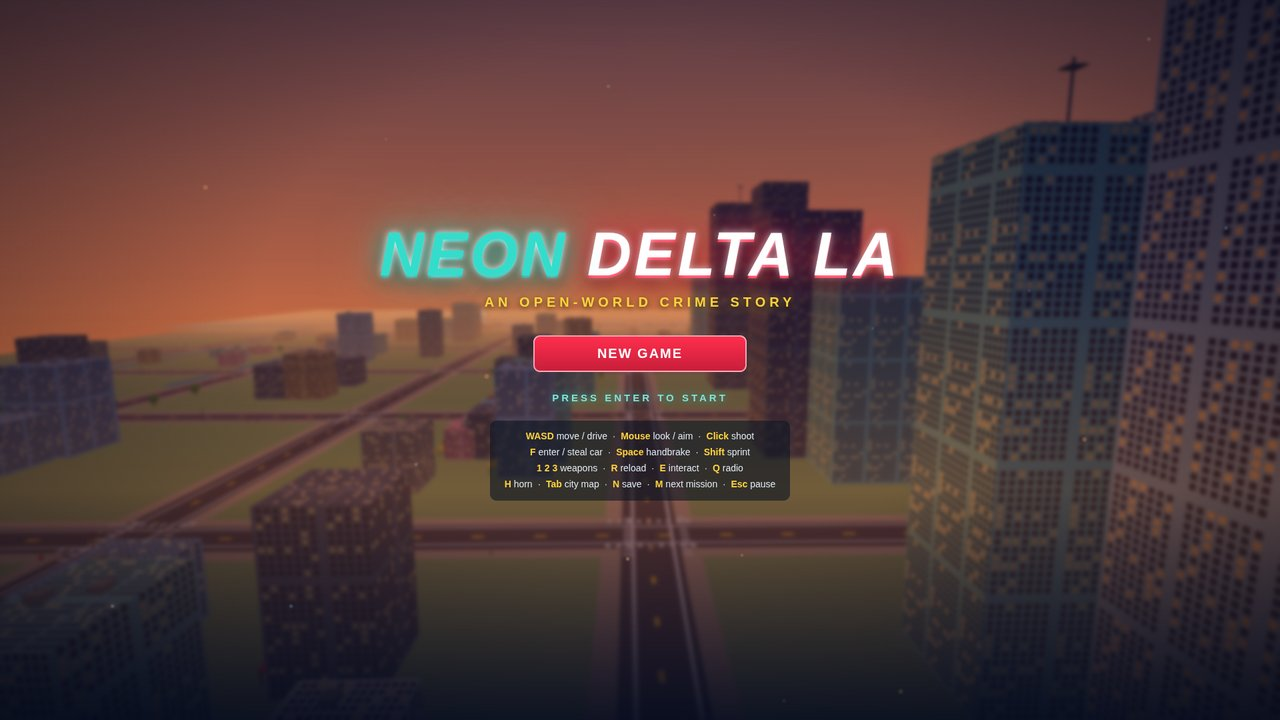
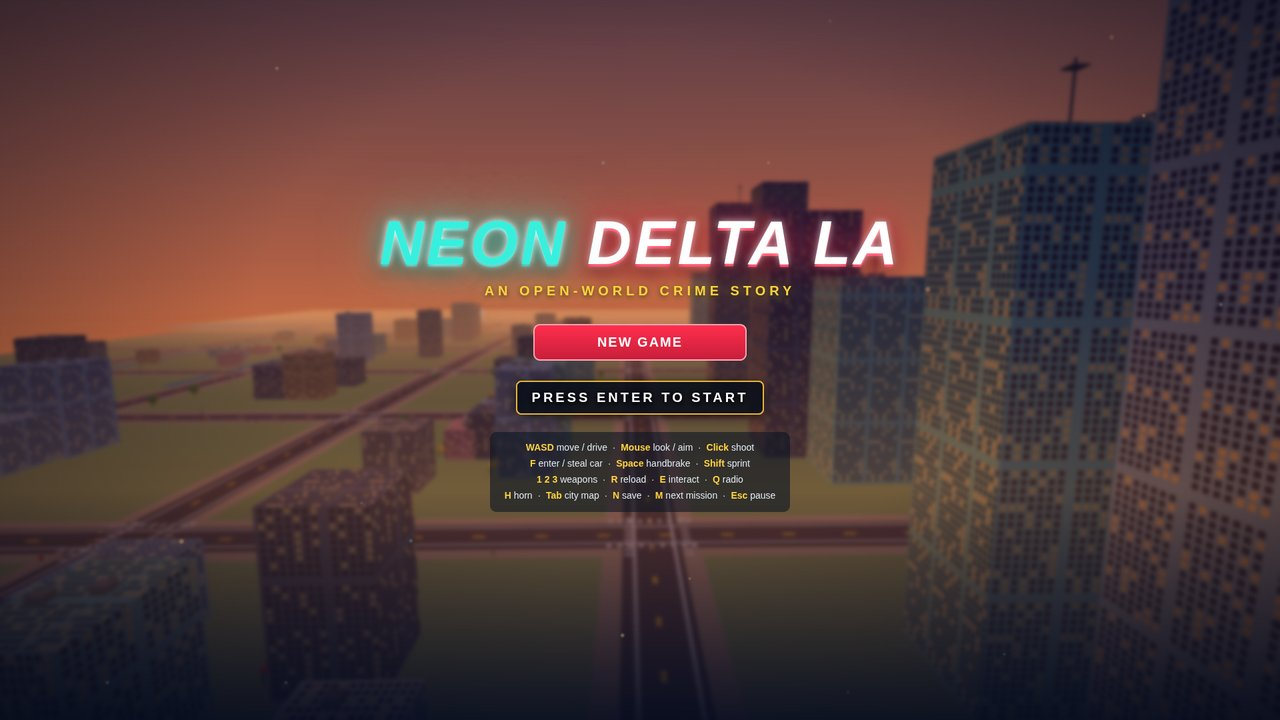
v8: judge-visible fixes — staged chase cruisers + traffic, pier close-up, port yard markings, title contrast

diff --git a/game/src/geo.js b/game/src/geo.js
@@ -82,21 +82,46 @@ export function groundTexture() {
   const pz = (z) => ((z + WORLD.HALF) / W) * S;
   return canvasTex(S, S, (g) => {
     g.fillStyle = '#8aa86b'; g.fillRect(0, 0, S, S); // grass base
-    // port concrete
-    g.fillStyle = '#9a9a92'; g.fillRect(px(340), pz(340), px(720) - px(340), pz(720) - pz(340));
-    // port yard detail: concrete panel seams every 40u, oil stains, and
-    // painted yellow container-slot outlines in the yard lanes, so the
-    // terminal floor reads as worked ground instead of flat gray.
-    g.strokeStyle = 'rgba(0,0,0,0.16)'; g.lineWidth = 2;
-    for (let x = 340; x <= 720; x += 40) { g.beginPath(); g.moveTo(px(x), pz(340)); g.lineTo(px(x), pz(720)); g.stroke(); }
-    for (let z = 340; z <= 720; z += 40) { g.beginPath(); g.moveTo(px(340), pz(z)); g.lineTo(px(720), pz(z)); g.stroke(); }
-    g.fillStyle = 'rgba(52,52,46,0.28)';
-    for (const [sx, sz, sw, sh] of [[380, 420, 70, 26], [520, 640, 90, 30], [640, 380, 50, 22], [430, 560, 60, 24], [660, 600, 46, 20]]) {
+    // port concrete: darker asphalt so the yard reads from the avenue
+    g.fillStyle = '#6f6f68'; g.fillRect(px(340), pz(340), px(720) - px(340), pz(720) - pz(340));
+    // Wide dark border band around the whole yard.
+    g.strokeStyle = 'rgba(20,20,16,0.55)'; g.lineWidth = 14;
+    g.strokeRect(px(340) + 7, pz(340) + 7, px(720) - px(340) - 14, pz(720) - pz(340) - 14);
+    // Thick white yard lanes every 20u + a painted coral center block.
+    g.strokeStyle = 'rgba(255,255,255,0.5)'; g.lineWidth = 6;
+    for (let x = 360; x <= 700; x += 20) { g.beginPath(); g.moveTo(px(x), pz(340)); g.lineTo(px(x), pz(720)); g.stroke(); }
+    for (let z = 360; z <= 700; z += 20) { g.beginPath(); g.moveTo(px(340), pz(z)); g.lineTo(px(720), pz(z)); g.stroke(); }
+    g.fillStyle = 'rgba(255,46,77,0.20)';
+    g.fillRect(px(460), pz(460), px(620) - px(460), pz(620) - pz(460));
+    g.strokeStyle = 'rgba(255,46,77,0.75)'; g.lineWidth = 6;
+    g.strokeRect(px(460), pz(460), px(620) - px(460), pz(620) - pz(460));
+    // Painted container bays across the central apron: thick yellow outline
+    // with a dark interior, so each bay reads from the avenue.
+    g.strokeStyle = '#f7c948'; g.lineWidth = 9;
+    for (let x = 400; x <= 600; x += 40) {
+      for (let z = 400; z <= 600; z += 40) {
+        g.fillStyle = 'rgba(0,0,0,0.14)';
+        g.fillRect(px(x), pz(z), px(x + 32) - px(x), pz(z + 28) - pz(z));
+        g.strokeRect(px(x), pz(z), px(x + 32) - px(x), pz(z + 28) - pz(z));
+      }
+    }
+    // Yellow underlay under each real stack bay (12 x 2.6 footprint) with a
+    // dark top, so a yellow painted border frames every stack.
+    for (const [sx, sz] of [[654, 438.7], [654, 478.7], [654, 518.7], [654, 558.7], [434, 658.7], [474, 658.7], [514, 658.7], [554, 658.7]]) {
+      g.fillStyle = '#f7c948';
+      g.fillRect(px(sx - 0.8), pz(sz - 0.8), px(sx + 12.8) - px(sx - 0.8), pz(sz + 3.4) - pz(sz - 0.8));
+      g.fillStyle = 'rgba(0,0,0,0.22)';
+      g.fillRect(px(sx), pz(sz), px(sx + 12) - px(sx), pz(sz + 2.6) - pz(sz));
+    }
+    // Big oil stains + a hazard chevron band along the yard entrance.
+    g.fillStyle = 'rgba(52,52,46,0.42)';
+    for (const [sx, sz, sw, sh] of [[380, 420, 70, 26], [520, 640, 90, 30], [640, 380, 50, 22], [430, 560, 60, 24], [660, 600, 46, 20], [400, 660, 80, 28], [580, 420, 60, 26]]) {
       g.fillRect(px(sx), pz(sz), px(sx + sw) - px(sx), pz(sz + sh) - pz(sz));
     }
-    g.strokeStyle = 'rgba(247,201,72,0.85)'; g.lineWidth = 3;
-    for (const [sx, sz] of [[654, 438.7], [654, 478.7], [654, 518.7], [654, 558.7], [434, 658.7], [474, 658.7], [514, 658.7], [554, 658.7]]) {
-      g.strokeRect(px(sx), pz(sz), px(sx + 12) - px(sx), pz(sz + 2.6) - pz(sz));
+    for (let i = 0; i < 24; i++) {
+      g.fillStyle = i % 2 ? '#f7c948' : '#22221e';
+      g.save(); g.translate(px(340 + i * 16), pz(706)); g.rotate(Math.PI / 4);
+      g.fillRect(0, 0, px(11) - px(0), px(11) - px(0)); g.restore();
     }
     // canal water (Venice Canals district)
     g.fillStyle = '#2f7fa8';

diff --git a/game/src/shots.js b/game/src/shots.js
@@ -8,8 +8,19 @@ export function applyShot(game, n) {
     game.enterCar(car);
     car.speed = 22; car.vx = Math.sin(car.heading) * 22; car.vz = Math.cos(car.heading) * 22;
     game.setWanted(2); // Midtown cruisers with flashing light bars close ahead
-    game.spawnPolice(200, 96, 0); // dead ahead in the same lane, head-on to the camera
-    game.spawnPolice(176, 108, 0); // second cruiser in the oncoming lane
+    // Scripted cruisers hold a fixed offset ahead of the player, so the
+    // chase camera always has a cruiser in frame (plain A* flanking turns
+    // them off the road ahead within seconds). Travel direction is north
+    // (0,-1); lane +5.5 is the player's lane, -5.5 the oncoming lane.
+    const c1 = game.spawnPolice(200, 85, Math.PI);
+    c1.script = { dirX: 0, dirZ: -1, ahead: 32, lane: 5.5 }; // same lane, close ahead — livery + light bar readable
+    const c2 = game.spawnPolice(200, 60, 0);
+    c2.script = { dirX: 0, dirZ: -1, ahead: 50, lane: -5.5 }; // oncoming lane, head-on to the camera
+    // Traffic ahead on the same avenue, so the road ahead reads busy:
+    // an oncoming sedan in the right lane, a tall pickup further up the
+    // left lane (each lane keeps its own depth line, nothing hides a cruiser).
+    game.spawnTraffic('sedan', 'z', 200, 60, 1, 11); // southbound, ends ~21 ahead on the right
+    game.spawnTraffic('pickup', 'z', 200, 60, -1, 10); // northbound, ends ~60 ahead on the left
     game.setMoney(1250);
     game.setCamera(Math.PI, 0.20);
     game.hud.setDialog('MARA: Midtown cruisers on my tail. Lose them!', 6000);
@@ -27,10 +38,10 @@ export function applyShot(game, n) {
   } else if (n === 3) {
     game.setState('playing');
     game.setHour(17.4);
-    game.teleport(-735, 300, -Math.PI / 2); // stall rows at the frame edges, wheel ahead
+    game.teleport(-716, 296, -2.09); // close on the deck between the stall rows, looking west-northwest: north-row signs read at an oblique angle, wheel in frame left
     game.setWanted(0);
     game.setMoney(4800);
-    game.setCamera(-Math.PI / 2, 0.20);
+    game.setCamera(-2.09, 0.20);
     game.startMission(2);
     game.hud.setDialog('MARA: Festival of Lights. The pier is lit up like a birthday cake.', 6000);
   } else if (n === 4) {

diff --git a/game/index.html b/game/index.html
@@ -47,8 +47,8 @@
   #title-screen h1 .neon { color: #2ec4b6; text-shadow: 0 0 12px rgba(255,255,255,.7), 0 0 42px rgba(46,196,182,.95), 0 0 90px rgba(46,196,182,.6), 0 4px 0 #1a7a72, 0 10px 30px rgba(0,0,0,.8); animation: neonPulse 3.2s ease-in-out infinite; }
   @keyframes neonPulse { 0%, 100% { filter: brightness(1); } 50% { filter: brightness(1.35); } }
   #title-screen h2 { position: relative; z-index: 2; font-size: 20px; color: #ffd23d; letter-spacing: 6px; margin: 8px 0 30px; text-shadow: 0 0 18px rgba(255,210,61,.7), 0 2px 8px rgba(0,0,0,.8); }
-  #press-enter { position: relative; z-index: 2; margin-top: 22px; font-size: 15px; font-weight: 900; letter-spacing: 4px; color: #7fe3d8; text-shadow: 0 0 14px rgba(46,196,182,.8); animation: blinkHint 1.6s steps(2) infinite; }
-  @keyframes blinkHint { 0%, 60% { opacity: 1; } 61%, 100% { opacity: .15; } }
+  #press-enter { position: relative; z-index: 2; margin-top: 22px; font-size: 20px; font-weight: 900; letter-spacing: 4px; color: #ffffff; background: rgba(8, 14, 24, .88); border: 2px solid rgba(255, 201, 60, .9); border-radius: 8px; padding: 12px 22px; text-shadow: 0 2px 6px #000, 0 0 14px rgba(0, 0, 0, .9); box-shadow: 0 4px 18px rgba(0, 0, 0, .65); animation: blinkHint 1.6s steps(2) infinite; }
+  @keyframes blinkHint { 0%, 60% { opacity: 1; } 61%, 100% { opacity: .55; } }
   #title-dust { position: absolute; inset: 0; overflow: hidden; pointer-events: none; z-index: 1; }
   #title-dust i { position: absolute; bottom: -12px; width: 5px; height: 5px; border-radius: 50%; background: rgba(255,220,150,.55); filter: blur(1px); animation: dustRise 16s linear infinite; }
   #title-dust i:nth-child(odd) { background: rgba(150,220,255,.4); }

diff --git a/game/src/police.js b/game/src/police.js
@@ -102,6 +102,24 @@ export class Police {
       });
     }
     for (const c of this.cars) {
+      if (c.script) {
+        // Staged chase (screenshot only): hold a fixed offset ahead of the
+        // player, so the cruiser stays in the chase camera's frame instead
+        // of A* flanking away from the road ahead. The light bar keeps
+        // flashing. Only shot staging sets c.script; normal play never does.
+        const s = c.script;
+        const rx = s.dirZ, rz = -s.dirX; // right vector of the travel direction
+        c.x = px + s.dirX * s.ahead + rx * s.lane;
+        c.z = pz + s.dirZ * s.ahead + rz * s.lane;
+        c.group.position.set(c.x, 0, c.z);
+        c.group.rotation.y = c.heading;
+        const on = Math.sin(t * 12) > 0;
+        if (c.lightBar) {
+          c.lightBar.red.emissiveIntensity = on ? 2.2 : 0.1;
+          c.lightBar.blue.emissiveIntensity = on ? 0.1 : 2.2;
+        }
+        continue;
+      }
       // steer toward current path node (or straight at the player when close)
       let tx = px, tz = pz;
       if (c.path && c.pathI < c.path.length) {

diff --git a/game/src/traffic.js b/game/src/traffic.js
@@ -36,6 +36,16 @@ export class Traffic {
     this.scene.add(v.group);
     return car;
   }
+  // Place one traffic car at an exact spot on a road (screenshot staging).
+  spawnAt(kind, axis, road, along, dir, speed, color) {
+    const v = createVehicle(kind, 0, 0, 0, color ?? pick(rng, CAR_COLORS));
+    const lane = dir > 0 ? 5.5 : -5.5;
+    const car = { v, axis, road, dir, along, speed };
+    this.place(car, along, lane);
+    this.cars.push(car);
+    this.scene.add(v.group);
+    return car;
+  }
   // Extra traffic confined to the port roads (trucks + cars around the terminal).
   spawnPortCars(n) {
     for (let i = 0; i < n; i++) {

diff --git a/game/src/main.js b/game/src/main.js
@@ -167,6 +167,7 @@ const gameApi = {
   enterCar(v) { enterCar(v); },
   setWanted(n) { game.wanted.level = n; police.setLevel(n); hud.setWanted(n); },
   spawnPolice(x, z, heading) { return police.spawnAt(x, z, heading || 0); },
+  spawnTraffic(kind, axis, road, along, dir, speed) { return traffic.spawnAt(kind, axis, road, along, dir, speed); },
   setHour(h) { game.hour = h; rig.setTimeOfDay(h); hud.setClock(h); },
   startMission(i) { startMission(i); },
   setCamera(yaw, pitch) { rig.yaw = yaw; rig.pitch = pitch; },
